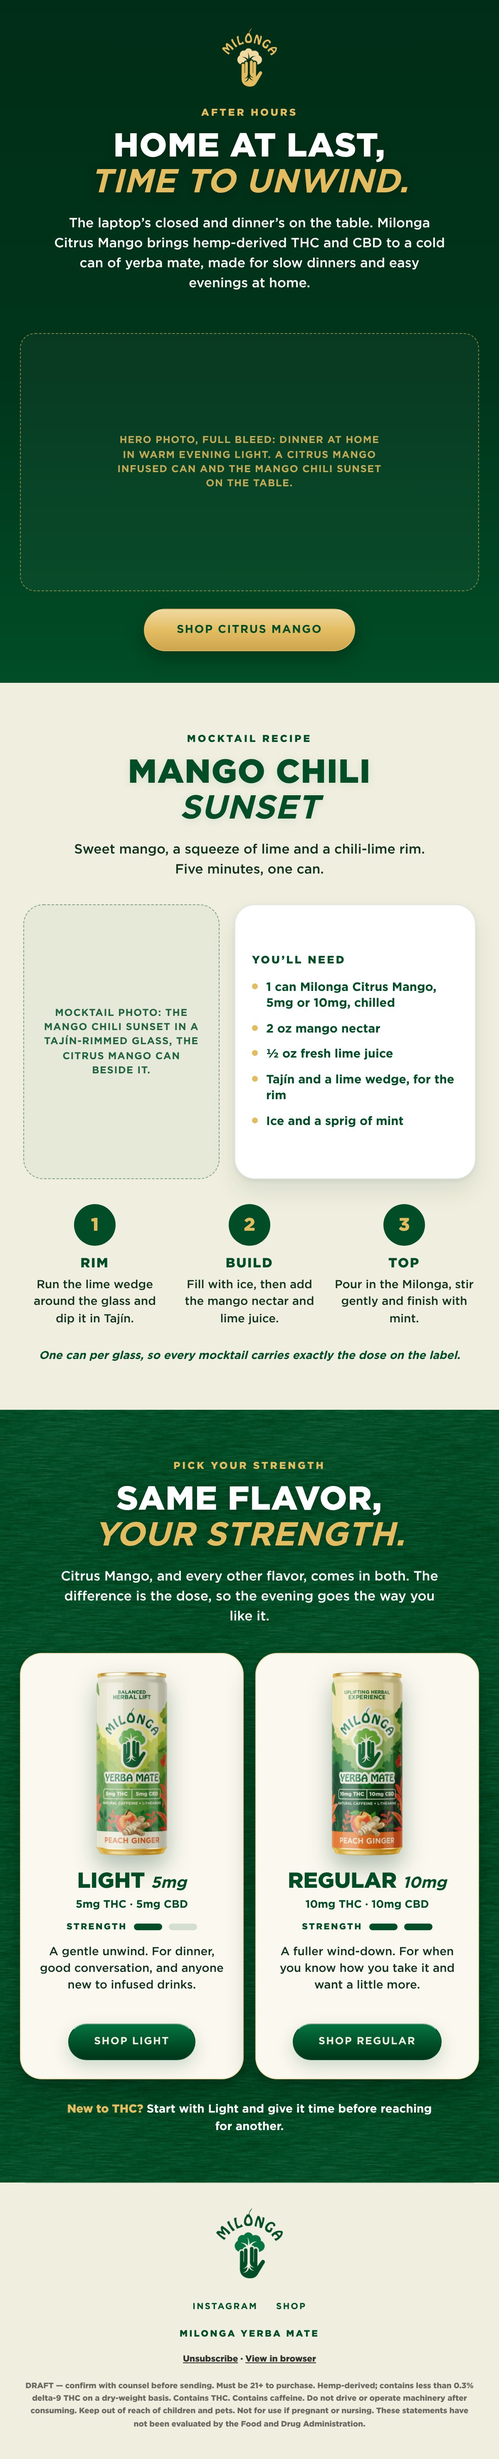
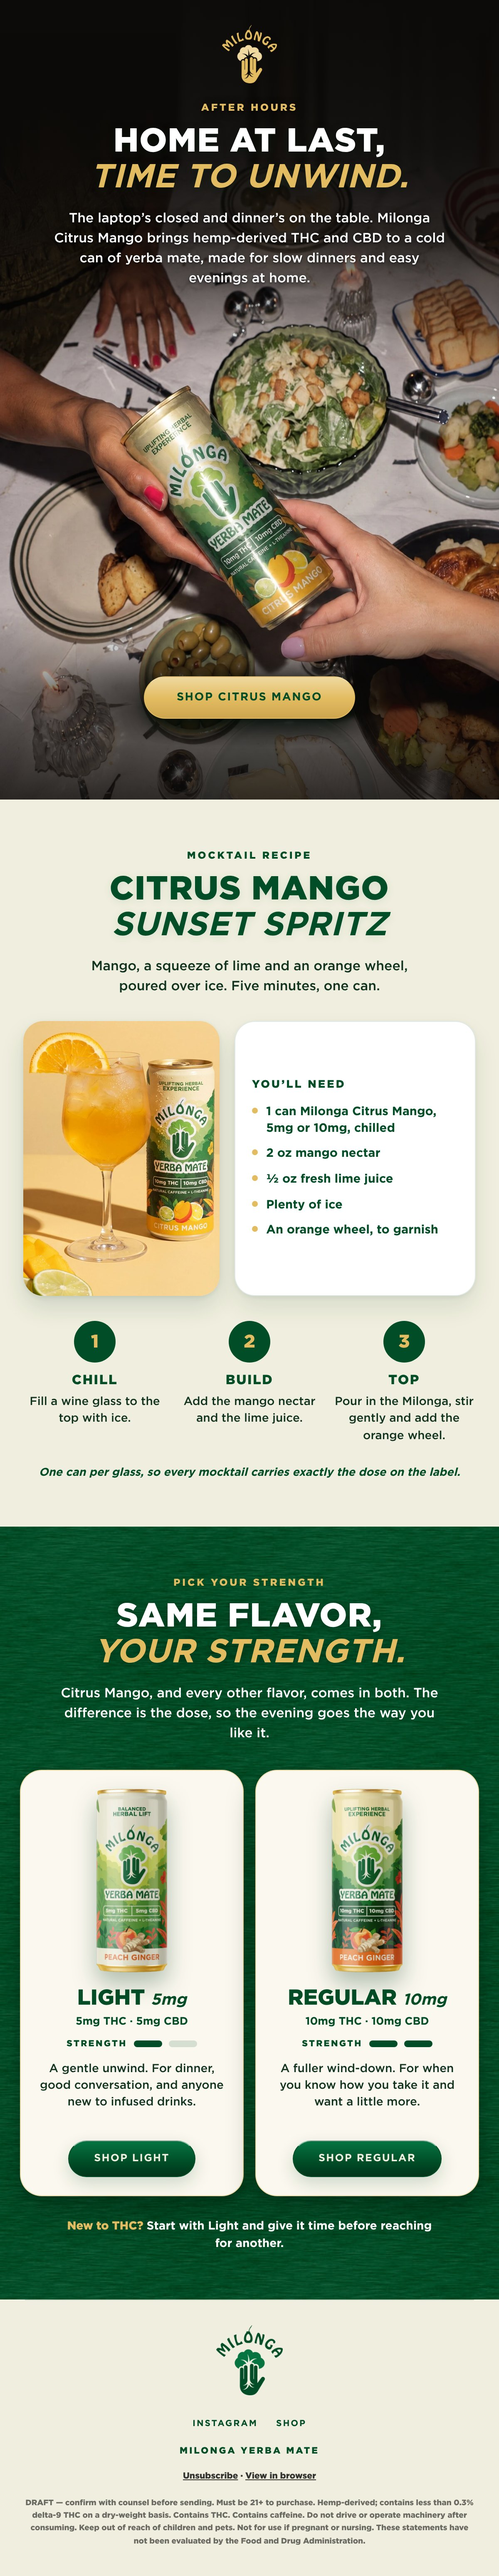
email: Unwind — dinner hero and mocktail photographs
Bernat's candlelit dinner (a Citrus Mango 10mg passed across the table)
becomes the full-bleed opener, extended upward for the type under a warm
near-black grade, the button seated under the can. His mocktail shot fills
the recipe photo, and the recipe now follows it: the Citrus Mango Sunset
Spritz, over ice in a wine glass with an orange wheel.

Claude-Session: https://claude.ai/code/session_01NhEtXPnfeCJfN73SqBkUZ5

diff --git a/email-ds/emails/unwind.jsx b/email-ds/emails/unwind.jsx
@@ -12,7 +12,7 @@
 // never "before bed".
 //
 // All copy is Claude's first draft from Bernat's brief. No build record yet.
-// Two photographs are still to come: the hero and the mocktail.
+// Photographs: Bernat's dinner table (section 1) and mocktail (section 2).
 const M = window.MilongaEmailDS;
 const h = React.createElement;
 
@@ -42,20 +42,22 @@ function PhotoSlot({ w, h: hh, brief, dark, radius = 0 }) {
 // ── The mocktail ─────────────────────────────────────────────────────────
 // One can per glass, so each mocktail carries exactly the dose on the can's
 // label; no alcohol in the recipe.
+// THE RECIPE FOLLOWS THE PHOTOGRAPH Bernat sent: a wine glass over ice, an
+// orange wheel on the rim, mango and lime beside it.
 const RECIPE = {
-  name: ['Mango Chili', 'Sunset'],
-  intro: 'Sweet mango, a squeeze of lime and a chili-lime rim. Five minutes, one can.',
+  name: ['Citrus Mango', 'Sunset Spritz'],
+  intro: 'Mango, a squeeze of lime and an orange wheel, poured over ice. Five minutes, one can.',
   ingredients: [
     '1 can Milonga Citrus Mango, 5mg or 10mg, chilled',
     '2 oz mango nectar',
     '½ oz fresh lime juice',
-    'Tajín and a lime wedge, for the rim',
-    'Ice and a sprig of mint',
+    'Plenty of ice',
+    'An orange wheel, to garnish',
   ],
   steps: [
-    ['Rim', 'Run the lime wedge around the glass and dip it in Tajín.'],
-    ['Build', 'Fill with ice, then add the mango nectar and lime juice.'],
-    ['Top', 'Pour in the Milonga, stir gently and finish with mint.'],
+    ['Chill', 'Fill a wine glass to the top with ice.'],
+    ['Build', 'Add the mango nectar and the lime juice.'],
+    ['Top', 'Pour in the Milonga, stir gently and add the orange wheel.'],
   ],
   note: 'One can per glass, so every mocktail carries exactly the dose on the label.',
 };
@@ -71,6 +73,23 @@ const STRENGTHS = [
     line: 'A fuller wind-down. For when you know how you take it and want a little more.',
     can: '../public/product/can-infused-10mg-studio.png', href: '#shop-10mg', cta: 'Shop Regular' },
 ];
+
+// The dinner photograph: 1333 x 2000 plus 444px of extended head, drawn 600
+// wide = 1100 units; the section keeps the first HERO_H of it.
+const HERO_H = 960;
+// The can's foot in the photograph sits about 755 units down.
+const CTA_TOP = 812;
+
+const SECTION_1_ALT =
+  'Milonga. After hours. Home at last, time to unwind. The laptop’s closed and ' +
+  'dinner’s on the table. Milonga Citrus Mango brings hemp-derived THC and CBD ' +
+  'to a cold can of yerba mate, made for slow dinners and easy evenings at ' +
+  'home. Two hands pass a can of Milonga Citrus Mango, 10mg THC and 10mg CBD, ' +
+  'across a candlelit dinner table. Shop Citrus Mango.';
+const SECTION_2_PHOTO_ALT =
+  'The Citrus Mango Sunset Spritz in a wine glass over ice with an orange ' +
+  'wheel, beside a can of Milonga Citrus Mango, 10mg THC and 10mg CBD, with ' +
+  'fresh mango and lime.';
 
 const COMPLIANCE =
   'DRAFT — confirm with counsel before sending. Must be 21+ to purchase. ' +
@@ -116,21 +135,30 @@ function Unwind({ shopHref = '#shop' }) {
   return h(M.EmailShell, { bg: 'beige' },
 
     // ── 1 · HOME AT LAST ──────────────────────────────────────────────────
-    // The loud moment: the evening photograph full-bleed, the type over its
-    // head on a dark scrim. Until the photograph exists, a slot.
-    h('div', { style: { position: 'relative', height: 820, overflow: 'hidden',
-      background: 'linear-gradient(180deg, #002D17 0%, #00351B 55%, #004D27 100%)' } },
-      h('div', { style: { position: 'absolute', left: 24, right: 24, top: 400, bottom: 110 } },
-        PhotoSlot({ w: '100%', h: '100%', dark: true, radius: 18,
-          brief: 'Hero photo, full bleed: dinner at home in warm evening light. A Citrus Mango infused can and the Mango Chili Sunset on the table.' })),
-      h('div', { style: { position: 'absolute', top: 34, left: 36, right: 36, textAlign: 'center' } },
+    // The loud moment: Bernat's dinner photograph full-bleed — a Citrus Mango
+    // 10mg passed across a candlelit table. Its head is busy (plates, a hand,
+    // candles) and the can starts about 265 units down, so the photo is
+    // extended 200 units upward from its own top rows (unwind-dinner-tall.jpg)
+    // and a warm near-black grade holds the type there, clear by the can.
+    // The button sits under the can, on a soft dark pool over the olives.
+    h('div', { style: { position: 'relative', height: HERO_H, overflow: 'hidden', background: '#0D0B09' } },
+      h('img', { src: '../public/product/unwind-dinner-tall.jpg', alt: SECTION_1_ALT,
+        style: { position: 'absolute', top: 0, left: 0, width: 600, height: 'auto', display: 'block' } }),
+      h('div', { style: { position: 'absolute', inset: 0,
+        background: 'linear-gradient(180deg, rgba(13,11,9,0.95) 0%, rgba(13,11,9,0.88) 18%, rgba(13,11,9,0.68) 30%, rgba(13,11,9,0.3) 38%, rgba(13,11,9,0) 45%, rgba(13,11,9,0) 76%, rgba(13,11,9,0.5) 88%, rgba(13,11,9,0.82) 100%)' } }),
+      h('div', { style: { position: 'absolute', top: 30, left: 36, right: 36, textAlign: 'center',
+        textShadow: '0 2px 10px rgba(0,0,0,0.55), 0 1px 2px rgba(0,0,0,0.45)' } },
         h(M.Logo, { tone: 'gold', variant: 'primary', height: 70 }),
-        h('div', { style: { marginTop: 20 } }, eyebrow('After hours', GOLD)),
+        h('div', { style: { marginTop: 18 } }, eyebrow('After hours', GOLD)),
         h(M.Headline, { line1: 'Home at last,', line2: 'time to unwind.', bg: 'forest', size: 40, align: 'center',
           color: '#FFFFFF', line2Color: GOLD, italic: true }),
         para('The laptop’s closed and dinner’s on the table. Milonga Citrus Mango brings hemp-derived THC and CBD to a cold can of yerba mate, made for slow dinners and easy evenings at home.', '#FFFFFF')),
-      h('div', { style: { position: 'absolute', bottom: 38, left: 0, right: 0, textAlign: 'center' } },
-        h(M.Button, { label: 'Shop Citrus Mango', href: shopHref, bg: 'forest', size: 'lg' })),
+      h('div', { style: { position: 'absolute', top: CTA_TOP - 34, left: 0, right: 0, height: 120,
+        background: 'radial-gradient(ellipse 50% 50% at 50% 50%, rgba(13,11,9,0.7) 0%, rgba(13,11,9,0.4) 55%, rgba(13,11,9,0) 100%)' } }),
+      h('div', { style: { position: 'absolute', top: CTA_TOP, left: 0, right: 0, textAlign: 'center' } },
+        h('div', { style: { display: 'inline-block', borderRadius: 999,
+          boxShadow: '0 10px 24px rgba(0,0,0,0.5), 0 2px 6px rgba(0,0,0,0.4)' } },
+          h(M.Button, { label: 'Shop Citrus Mango', href: shopHref, bg: 'forest', size: 'lg' }))),
     ),
 
     // ── 2 · THE MOCKTAIL ──────────────────────────────────────────────────
@@ -143,7 +171,9 @@ function Unwind({ shopHref = '#shop' }) {
         para(RECIPE.intro, INK, 440)),
       h('div', { style: { display: 'flex', gap: 18, marginTop: 30, alignItems: 'stretch' } },
         h('div', { style: { flex: '0 0 236px' } },
-          PhotoSlot({ w: 236, h: 330, radius: 24, brief: 'Mocktail photo: the Mango Chili Sunset in a Tajín-rimmed glass, the Citrus Mango can beside it.' })),
+          h('img', { src: '../public/product/mocktail-citrus-mango-10mg.jpg', alt: SECTION_2_PHOTO_ALT,
+            style: { width: 236, height: 330, objectFit: 'cover', borderRadius: 24, display: 'block',
+              boxShadow: '0 14px 28px rgba(0,53,27,0.14), 0 2px 6px rgba(0,53,27,0.08)' } })),
         h('div', { style: { flex: 1, background: '#FFFFFF', borderRadius: 24, padding: '22px 20px',
           display: 'flex', flexDirection: 'column', justifyContent: 'center',
           border: '1px solid rgba(0,77,39,0.12)', boxShadow: '0 14px 28px rgba(0,53,27,0.10), 0 2px 6px rgba(0,53,27,0.07)' } },
